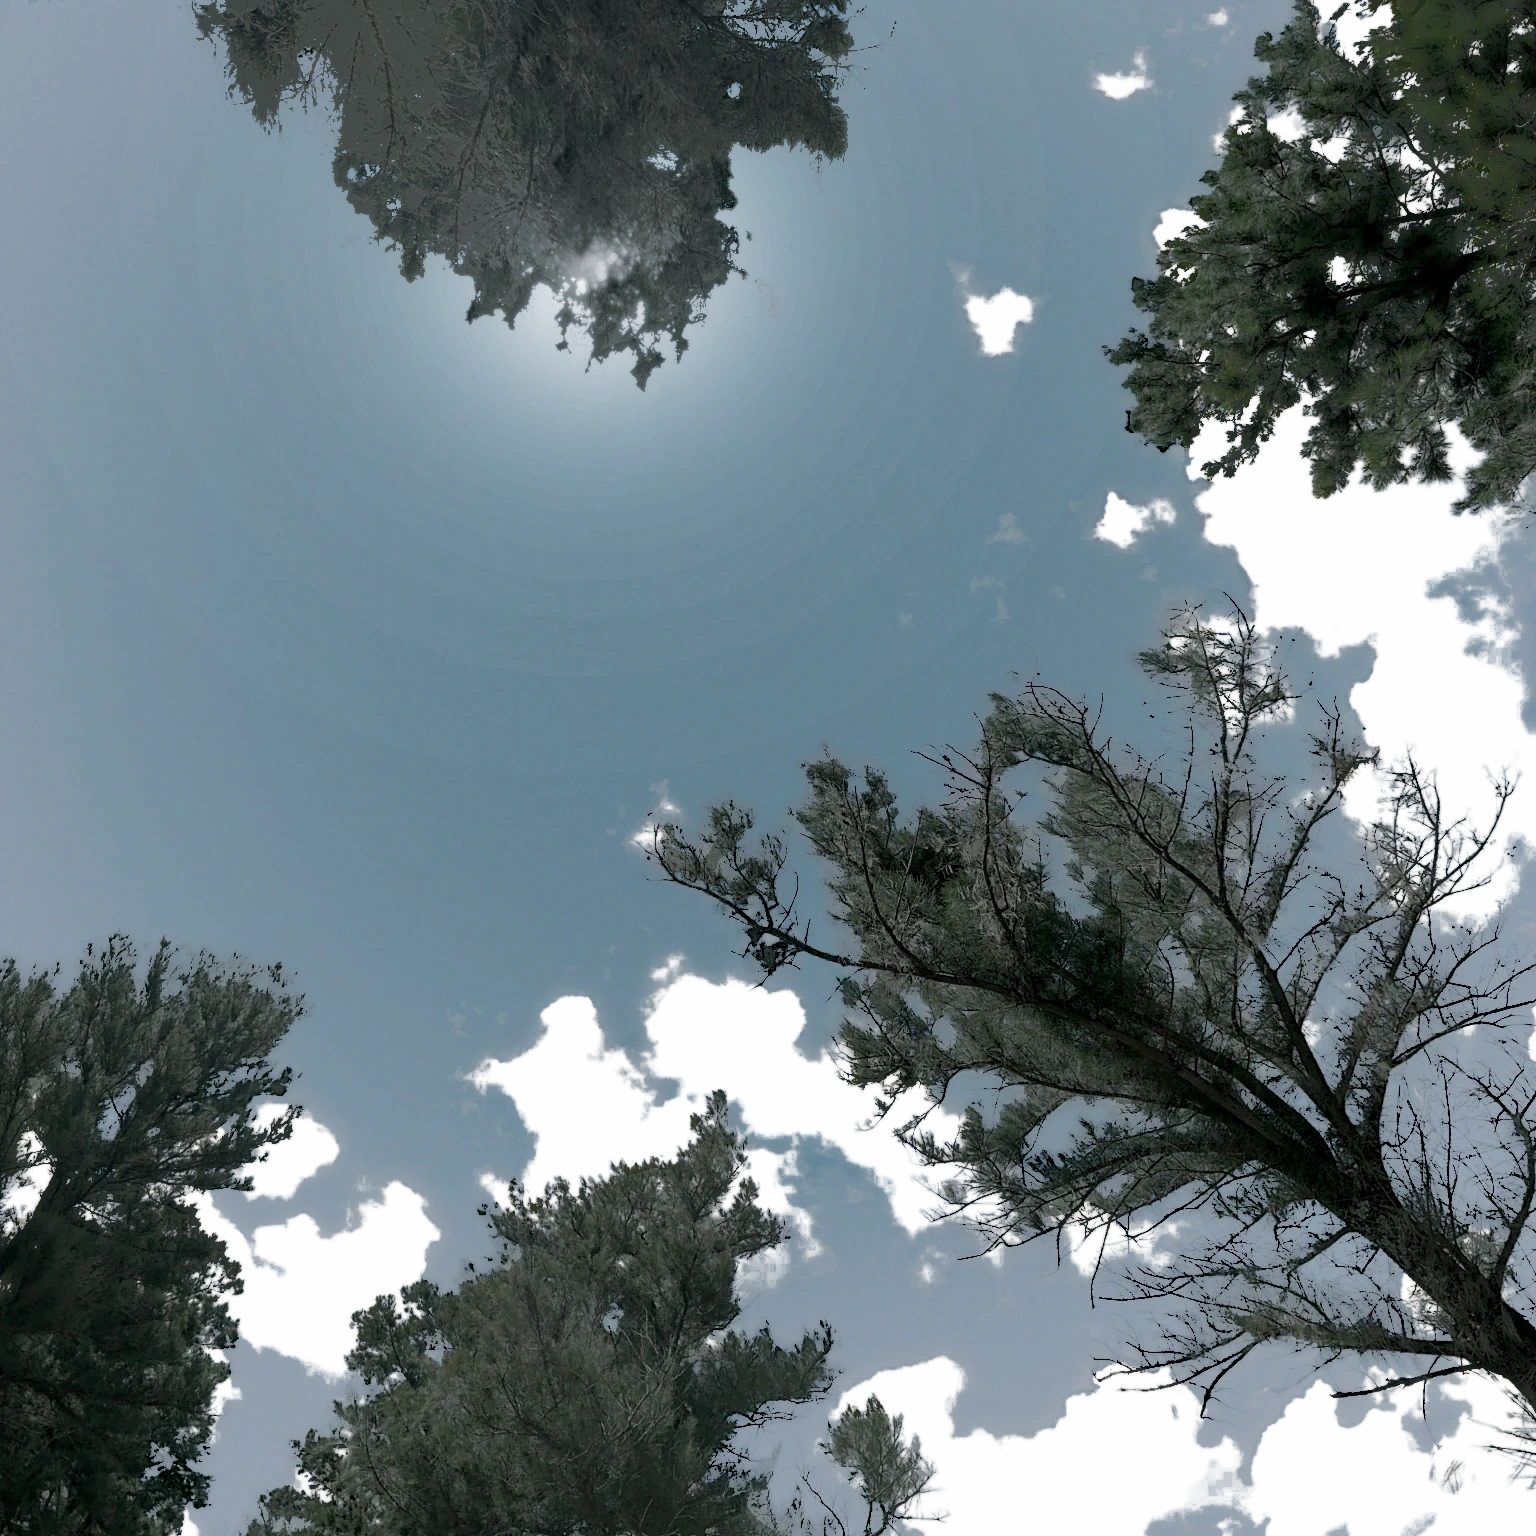
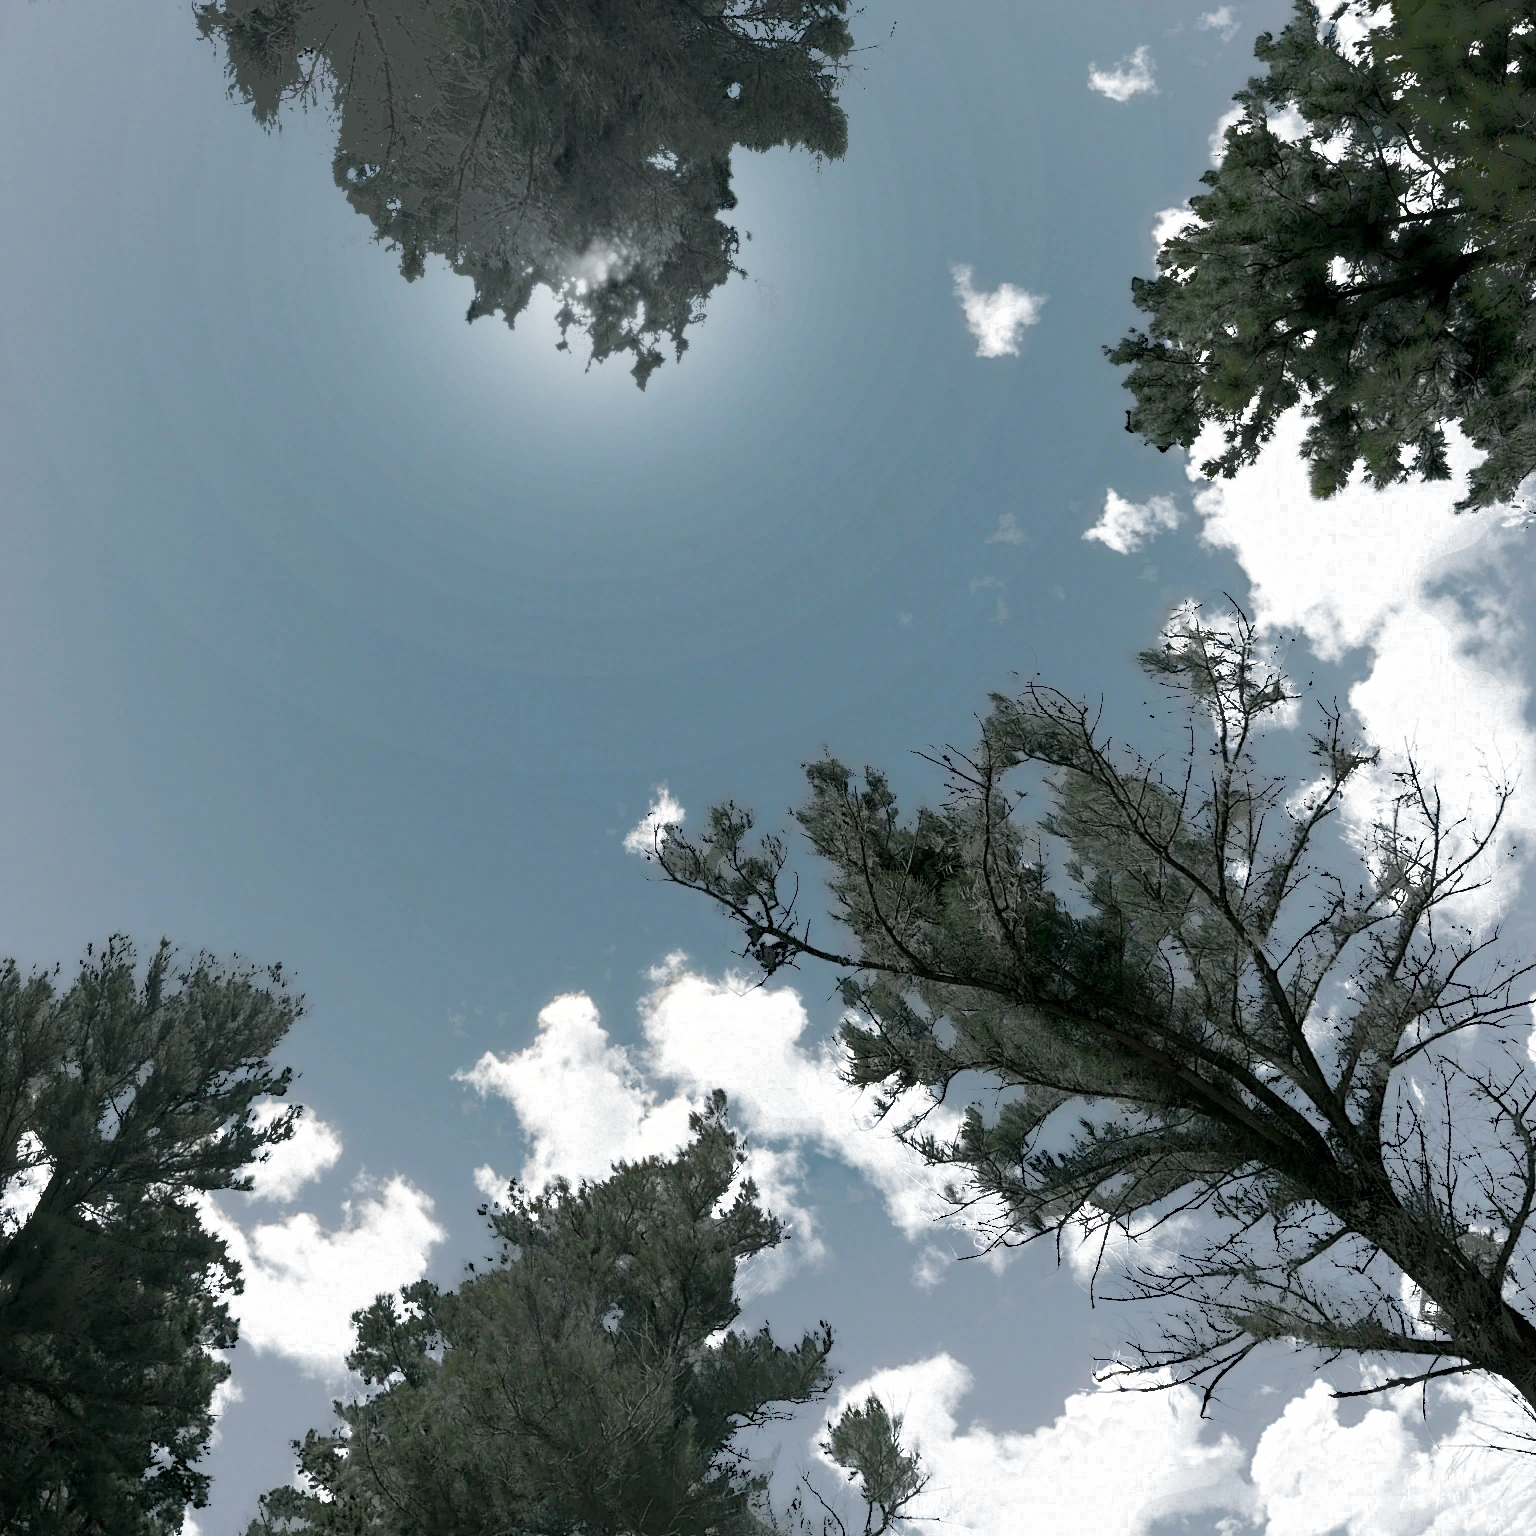
Lab: climb overexpose round 2
Claude-Session: https://claude.ai/code/session_01RqENhngNCzDFmJWDZueXGV

diff --git a/src/app/lab/overexpose/overexposeEngine.js b/src/app/lab/overexpose/overexposeEngine.js
@@ -93,6 +93,12 @@ export const FILM = {
   skyHoldFull: 1.67,
 
   hiWarm: 0.025,
+  // The cumulus' sunlit tops roll off warm-neutral on the shoulder (towards
+  // #fff6ea), not the scan's grey-white: on the bake's cloud share (alpha) and
+  // off the sky, a highlight takes cloudWarm more red than blue before the
+  // paper-white cap, which keeps it under 255 at every exposure (clouds.py).
+  cloudWarm: 0.08,
+  cloudWarmHue: [1.0, 0.45, -0.45],
   // The softness belongs to the sky. At low exposure the needles (keyed on the
   // scene's luminance, needleY) take only 1 - needleBloomCap of the Pro-Mist veil
   // and 1 - needleHalCap of the halation, and are sampled from the full-size
@@ -135,7 +141,7 @@ uniform vec3 uGref;         // negative density of the printer-light grey
 uniform vec3 uPk; uniform vec3 uPx0; uniform vec3 uDmin; uniform vec3 uDmax; uniform vec3 uShExt; uniform vec2 uShX;
 uniform vec2 uNeedleY; uniform vec2 uNeedleCap; // luminance key; bloom and halation caps, already scaled by exposure
 uniform float uLod;         // mip level the print is minified to
-uniform float uSat; uniform float uBlueSat; uniform vec3 uBlueHue; uniform float uHiDesat; uniform float uHiWarm;
+uniform float uSat; uniform float uBlueSat; uniform vec3 uBlueHue; uniform float uHiDesat; uniform float uHiWarm; uniform float uCloudWarm; uniform vec3 uCloudWarmHue;
 uniform vec2 uSkyQ; uniform float uHold; uniform float uHoldNeedle; uniform vec2 uHoldY; uniform float uHoldDepth; uniform float uSkyHiKeep; uniform float uSkyHiHue; uniform float uSkyCap;
 uniform float uBloom; uniform float uHal; uniform vec3 uHalColor;
 uniform float uGrain; uniform float uSeed; uniform float uGrainPx;
@@ -211,6 +217,8 @@ void main(){
   c *= y / max(dot(c, LUMA), 1e-6);
   // Never past the paper's own white: a channel that would print brighter than
   // the base gives up luminance with the others, so the hue holds.
+  float cloud = 1.0 - clamp((sc.a * 255.0 - 3.0) / 252.0, 0.0, 1.0);
+  c *= 1.0 + uCloudWarm * hi * cloud * (1.0 - sky) * uCloudWarmHue;
   vec3 white = pow(vec3(10.0), -uDmin) * (1.0 - uSkyCap * sky);
   c /= max(1.0, max(c.r / white.r, max(c.g / white.g, c.b / white.b)));
   c *= 1.0 + uHiWarm * hi * vec3(1.0, 0.3, -0.6);
@@ -504,6 +512,8 @@ export async function createOverexpose(host, { embedded = false } = {}) {
     gl.uniform3fv(u.uBlueHue, F.blueHue);
     gl.uniform1f(u.uHiDesat, F.hiDesat);
     gl.uniform1f(u.uHiWarm, F.hiWarm);
+    gl.uniform1f(u.uCloudWarm, F.cloudWarm);
+    gl.uniform3fv(u.uCloudWarmHue, F.cloudWarmHue);
     gl.uniform2fv(u.uSkyQ, F.skyQ);
     gl.uniform1f(u.uSkyHiKeep, F.skyHiKeep);
     gl.uniform1f(u.uSkyHiHue, F.skyHiHue);

diff --git a/tools/depth/bakes/overexpose/clouds.py b/tools/depth/bakes/overexpose/clouds.py
@@ -1,0 +1,217 @@
+# The cumulus re-shaded from the HDRI's own radiance.
+#
+# By crown.py the clouds were the frame's flattest part. relight.py and
+# polarise.py had graded them from the tone-mapped bake: a blurred key, a
+# warm/blue multiply by side, and a cloud-depth matte read from the bake's own
+# blue-minus-red, which by then carried the photograph's grain, old compression
+# blocks and every later pass. So the banks printed as low-contrast grey-white
+# with no lit tops and no blue undersides, and wherever the chroma matte dipped
+# the cobalt sky leaked into a bank as cyan watercolour blotches.
+#
+# The photograph itself has the volume: in the HDRI's unclipped radiance the
+# cumulus are lit from above, bright domed tops falling 2+ stops into shaded
+# bases, with clean neutral chroma. The cloud pixels were never moved by the
+# earlier passes (desun.py and resun.py painted only sky, crown.py only the top
+# crown), so the equirect rendered through the same camera lands on the shipped
+# bake pixel for pixel. Here:
+#   1. the matte: each pixel's cloud depth from the HDR, one minus its
+#      blue-minus-red saturation over the local open sky's (CD_FULL of it is full
+#      cloud), times a luminance gate (needles are neutral but dark), filled
+#      under the needles from the cloud around them; only cloud the bake already
+#      knew of (its old key, dilated) counts, so the old sun's star and the crown
+#      around the hidden sun are left alone;
+#   2. the cloud's own light, solved out of the mixed pixels against the HDR's
+#      local sky, sets each pixel's shade: log2 of it over the banks' top light,
+#      eased by SHADE_M and SHADE_K, so a cloud prints from a skylit base to a top near
+#      the paper's shoulder; a smaller term from the blurred matte's gradient
+#      lifts the side of each puff that faces the hidden sun and sinks the side
+#      away from it;
+#   3. its colour follows that shade: warm-neutral (TOP, rolling off towards
+#      about #fff6ea on the shoulder) on the lit tops, skylight blue (UNDER, hue
+#      ~205, 25-35% saturation at mid value) in the shaded bases, so the bank
+#      reads as one lit volume;
+#   4. each open pixel is recomposited as (1 - depth) x the bake's local open sky
+#      (a masked blur, so no grain or blotch rides in) + depth x that new cloud
+#      light; the needles keep theirs (canopy.py's share decides what is needle).
+#      Inside a bank the depth is the HDR's, smooth and near 1, so no sky chroma
+#      gets through: the cyan blotches go;
+#   5. alpha (the sky hold's key) is laid again from the new depth outside the
+#      hidden sun's glow, and the optics take the change's own blur.
+#
+# Pipeline: run last, on copies of the shipped bake. The HDR is Poly Haven's 8k
+# Tree Lined Driveway (see experiment.json); its render through the camera is
+# cached as an .npy beside it (~28 MB):
+#             python3 clouds.py <scene.webp> <optics.png> <tree_lined_driveway_8k.hdr> [preview_dir]
+import sys, os; sys.path.insert(0, os.path.dirname(os.path.abspath(__file__)))
+import numpy as np
+from PIL import Image
+from scipy import ndimage as ndi
+import bake_wormseye as bw
+import deepen
+import canopy
+import hdrlib
+import wormseye_lib as wlib
+import sunburst
+
+LUMA = np.array([0.2126, 0.7152, 0.0722])
+# 1. the matte
+SKY_Q, SKY_PX = 0.95, 12.0                  # HDR open sky: log2 blue/red above this; its masked blur (px)
+CD_FULL = 0.7                               # share of the sky's saturation lost that reads as full cloud
+SEEN = (0.5, 0.85)                          # HDR luminance over the local sky's: needle below, seen cloud above
+FILL_PX = 4.0                               # under the needles the depth is read from the cloud around (px)
+KEY_PX = 14                                 # the bake's old cloud key, dilated this far, gates the new one (px)
+KEY_GLOW_DEG = 26.0                         # nearer the hidden sun the old key is its glow (sunburst.py), not cloud
+SUN_SPARE = (7.0, 10.0)                     # deg round the hidden sun left to crown.py (from, to)
+OLD_SUN_PX = (110.0, 170.0)                 # px round the HDR's own sun (painted out of the bake): its star is not cloud
+# 2. the shade
+TOP_PCT = 99.0                              # the banks' top light: this percentile of solid cloud
+SHADE_M, SHADE_K = 3.6, 1.0                 # shade: stops under the top light x -> SHADE_M (1 - exp(-x / SHADE_K)),
+                                            # so the domed tops spread out and the bases settle at mid value
+Y_TOP = 2.1                                 # a top at the banks' top light, linear (prints ~236 at 0 EV)
+Y_MAX = 2.9                                 # nothing brighter
+FACE_PX, FACE_GAIN, FACE_STOPS = 12.0, 3.0, 0.35    # sun-facing side: matte blur (px), steepness, +/- stops
+# 3. the colour (linear ratios over luminance)
+TOP = np.array([1.4, 1.0, 0.6])             # warm-neutral, sun on the tops
+UNDER = np.array([0.66, 1.0, 1.5])          # skylight on the bases
+LIT = (-3.0, -0.6)                          # stretched shade (stops under the top) from base colour to top colour
+FACE_LIT = 0.25                             # colour weight the sun-facing term adds (or, facing away, takes)
+# 4. compositing
+Q_FLOOR = 0.75                              # a needle pixel keeps at least this share of each channel
+OPEN_W = (0.02, 0.12)                       # depth over which an open pixel goes from the bake's own to recomposited
+
+def smooth(a, lo, hi):
+    t = np.clip((a - lo) / (hi - lo), 0, 1)
+    return t * t * (3 - 2 * t)
+
+def mblur(a, m, s):
+    return ndi.gaussian_filter(a * m, s) / np.maximum(ndi.gaussian_filter(m, s), 1e-9)
+
+def render(hdr):
+    """The equirect through the bake's camera (deepen.py's), 2x supersampled."""
+    cache = hdr + '.wormseye1536.npy'
+    if os.path.exists(cache):
+        return np.load(cache).astype(np.float64)
+    eq = np.asarray(hdrlib.read_hdr(hdr))
+    R = wlib.rot(deepen.YAW, deepen.PITCH, deepen.ROLL)
+    ss = 2
+    d = wlib.rays(deepen.SIZE, deepen.FOV, 'stereo', ss=ss)
+    out = np.zeros((deepen.SIZE, deepen.SIZE, 3), np.float32)
+    for r0 in range(0, deepen.SIZE * ss, 256):
+        out[r0 // ss:(r0 + 256) // ss] = wlib.sample(eq, d[r0:r0 + 256], R, ss)
+    del eq
+    try: os.remove(hdr + '.npy')            # hdrlib's full-size float cache (~400 MB)
+    except OSError: pass
+    np.save(cache, out)
+    return out.astype(np.float64)
+
+def depth(raw, a8):
+    """The HDR's cloud depth (0..1), its local open sky, and the cloud's own light."""
+    Y = raw @ LUMA
+    q = np.log2(np.maximum(raw[..., 2], 1e-6) / np.maximum(raw[..., 0], 1e-6))
+    skym = ndi.binary_erosion((q > SKY_Q) & (Y > 0.05), iterations=3).astype(float)
+    S = canopy.field(raw, skym, SKY_PX)
+    SY = S @ LUMA
+    sat = (raw[..., 2] - raw[..., 0]) / np.maximum(raw[..., 2], 1e-6)
+    sat_s = (S[..., 2] - S[..., 0]) / np.maximum(S[..., 2], 1e-6)
+    d = np.clip((1 - sat / np.maximum(sat_s, 1e-3)) / CD_FULL, 0, 1)
+    seen = smooth(Y / np.maximum(SY, 1e-6), *SEEN)
+    # under the needles: the depth of the cloud and sky around them
+    fill = mblur(d * seen, seen, FILL_PX)
+    d = seen * d + (1 - seen) * np.where(ndi.gaussian_filter(seen, FILL_PX) > 0.05, fill, 0)
+    # only where the bake knew of cloud (its key), and not round the hidden sun
+    _, g = deepen.geometry()
+    key = ndi.binary_dilation((a8 < 235) & (g > KEY_GLOW_DEG), iterations=KEY_PX).astype(float)
+    sy, sx = np.unravel_index(np.argmax(Y), Y.shape)
+    yy, xx = np.mgrid[0:Y.shape[0], 0:Y.shape[1]]
+    d = d * ndi.gaussian_filter(key, 3.0) * smooth(g, *SUN_SPARE) * smooth(np.hypot(yy - sy, xx - sx), *OLD_SUN_PX)
+    # the cloud's own light: solved against the local sky where the pixel is mostly
+    # cloud, the solid cloud's around it where it is mostly sky
+    dc = np.maximum(d, 0.4)[..., None]
+    C = np.maximum(raw - (1 - dc) * S, 0.05 * raw) / dc
+    solid = smooth(d, 0.6, 0.9) * seen
+    Cs = np.stack([mblur(C[..., c], solid, 6.0) for c in range(3)], -1)
+    wc = smooth(d, 0.3, 0.7)[..., None]
+    C = wc * C + (1 - wc) * np.where(ndi.gaussian_filter(solid, 6.0)[..., None] > 0.02, Cs, C)
+    return d, seen, C, g, key
+
+def shade(C, d, seen):
+    """Stretched shade (stops under the top) and the sun-facing term, -1..1."""
+    CY = C @ LUMA
+    solid = (d > 0.85) & (seen > 0.9)
+    top = np.percentile(CY[solid], TOP_PCT)
+    x = np.maximum(-np.log2(np.maximum(CY, 1e-6) / top), 0)
+    lr = -SHADE_M * (1 - np.exp(-x / SHADE_K))
+    n = d.shape[0]
+    yy, xx = np.mgrid[0:n, 0:n].astype(np.float64)
+    sx, sy = deepen.U * n - xx, deepen.V * n - yy
+    sl = np.maximum(np.hypot(sx, sy), 1e-6); sx /= sl; sy /= sl
+    b = ndi.gaussian_filter(d, FACE_PX)
+    by, bx = np.gradient(b)
+    face = np.clip(-(bx * sx + by * sy) * FACE_PX * FACE_GAIN, -1, 1)   # >0: the depth falls away towards the sun
+    return lr, face, top
+
+def clouds(pix, a8, raw):
+    d, seen, C, g, key = depth(raw, a8)
+    lr, face, top = shade(C, d, seen)
+    # new cloud light
+    Yn = np.minimum(Y_TOP * 2.0 ** (lr + FACE_STOPS * face), Y_MAX)
+    lit = np.clip(smooth(lr, *LIT) + FACE_LIT * face, 0, 1)
+    top_c, und_c = TOP / (TOP @ LUMA), UNDER / (UNDER @ LUMA)
+    col = np.exp(np.log(und_c) * (1 - lit[..., None]) + np.log(top_c) * lit[..., None])
+    col /= (col @ LUMA)[..., None]
+    Cn = Yn[..., None] * col
+    # the bake's own open light and needles
+    t, S_c, _, near, _ = canopy.shares(pix, a8.astype(float))
+    Y = pix @ LUMA
+    q = np.log2(np.maximum(pix[..., 2], 1e-6) / np.maximum(pix[..., 0], 1e-6))
+    skym = ndi.binary_erosion((q > 1.0) & (Y > 0.05) & (d < 0.05), iterations=1).astype(float)
+    Ssky = canopy.field(pix, skym, 5.0)
+    B = (1 - d)[..., None] * Ssky + d[..., None] * Cn          # the light behind, rebuilt
+    w = smooth(ndi.gaussian_filter(d, 1.5), *OPEN_W)[..., None]
+    O = pix + w * (B - pix)                                     # an open pixel
+    dQ = (t[..., None] * w) * (B - S_c)                         # a needle pixel: only its open share changes
+    # (where the share is overread, a dark needle would lose a whole channel and print
+    # as a saturated cyan speck: the change is scaled back, all channels together, so
+    # none drops below Q_FLOOR of its own light)
+    lam = np.where(dQ < 0, (1 - Q_FLOOR) * pix / np.maximum(-dQ, 1e-9), 1.0).min(-1, keepdims=True)
+    Q = pix + np.minimum(lam, 1.0) * dQ
+    nr = near[..., None]
+    out = nr * Q + (1 - nr) * O
+    out = np.minimum(np.maximum(out, 2.0 ** bw.LO), 2.0 ** bw.HI)
+    # the sky hold's key from the new depth, outside the hidden sun's glow
+    # (with sunburst.py's glow key kept under it), only where the old key was cloud
+    share = d * np.clip(t, 0, 1)
+    share = share + (1 - share) * sunburst.KEY_A * np.exp(-g / sunburst.KEY_DEG)
+    a_new = 3 + 252 * np.round((1 - np.clip(share, 0, 1)) * 63) / 63      # 64 steps, as relight.py
+    wa = smooth(g, *SUN_SPARE) * ndi.gaussian_filter(key, 2.0)
+    a = a8.astype(float)
+    a = np.clip(np.round(a + wa * (a_new - a)), 0, 255).astype(np.uint8)
+    print('cloud top light %.3f, depth>0.5 %.3f of frame' % (top, float((d > 0.5).mean())))
+    return out, a, dict(d=d, lit=lit, face=face, g=g)
+
+if __name__ == '__main__':
+    s = np.asarray(Image.open(sys.argv[1]).convert('RGBA'))
+    s8, a8 = s[..., :3], s[..., 3]
+    g8 = np.asarray(Image.open(sys.argv[2]).convert('RGB'))
+    raw = render(sys.argv[3])
+    pix = bw.dec_log(s8)
+    out, a8n, diag = clouds(pix, a8, raw)
+    rng = np.random.default_rng(37)
+    changed = np.abs(np.log2(out / pix)).max(-1) > 1e-3
+    s8n = np.where(changed[..., None], bw.enc_log(out, rng), s8).astype(np.uint8)
+    d_opt = bw.optics(out - pix)
+    glow = np.maximum(bw.dec_log(g8) + d_opt, 2.0 ** bw.LO)
+    g8n = np.where((np.abs(d_opt) > 1e-6).any(-1, keepdims=True), bw.enc_log(glow, rng), g8).astype(np.uint8)
+    print('changed px %.3f' % float(changed.mean()))
+    if len(sys.argv) > 4:
+        dd = sys.argv[4]
+        Image.fromarray(np.dstack([s8n, a8n]), 'RGBA').save(os.path.join(dd, 'scene.png'))
+        Image.fromarray(g8n, 'RGB').save(os.path.join(dd, 'optics.png'))
+        v = np.stack([diag['d'], diag['lit'], 0.5 + 0.5 * diag['face']], -1)
+        Image.fromarray((np.clip(v, 0, 1) * 255).astype(np.uint8)).save(os.path.join(dd, 'matte.png'))
+        print('preview written to', dd)
+        sys.exit(0)
+    Image.fromarray(np.dstack([s8n, a8n]), 'RGBA').save(
+        os.path.join(bw.OUT, 'scene.webp'), 'WEBP', quality=94, alpha_quality=100, method=6, exact=True)
+    bw.save_optics(g8n)
+    print('wrote', bw.OUT)

diff --git a/tools/depth/bakes/overexpose/bake_wormseye.py b/tools/depth/bakes/overexpose/bake_wormseye.py
@@ -7,6 +7,7 @@
 #     && python3 canopy.py <copy of scene.webp> <copy of optics.png>    (near-black, crisp canopy; the top crown's lip trimmed)
 #     && python3 redome.py <copy of scene.webp> <copy of optics.png>    (once, on the shipped bake: the broad-dome sky field, the drawn leader out)
 #     && python3 crown.py <copy of scene.webp> <copy of optics.png> <donor.webp>  (once: the top crown re-keyed from real needles, radial aureole)
+#     && python3 clouds.py <copy of scene.webp> <copy of optics.png> <tree_lined_driveway_8k.hdr>  (cumulus re-shaded from the HDR's own radiance)
 # (OE_WORK holds the 8k caches). bake.py is the earlier rectilinear bake, kept for reference.
 import numpy as np, io, os, sys
 from PIL import Image
